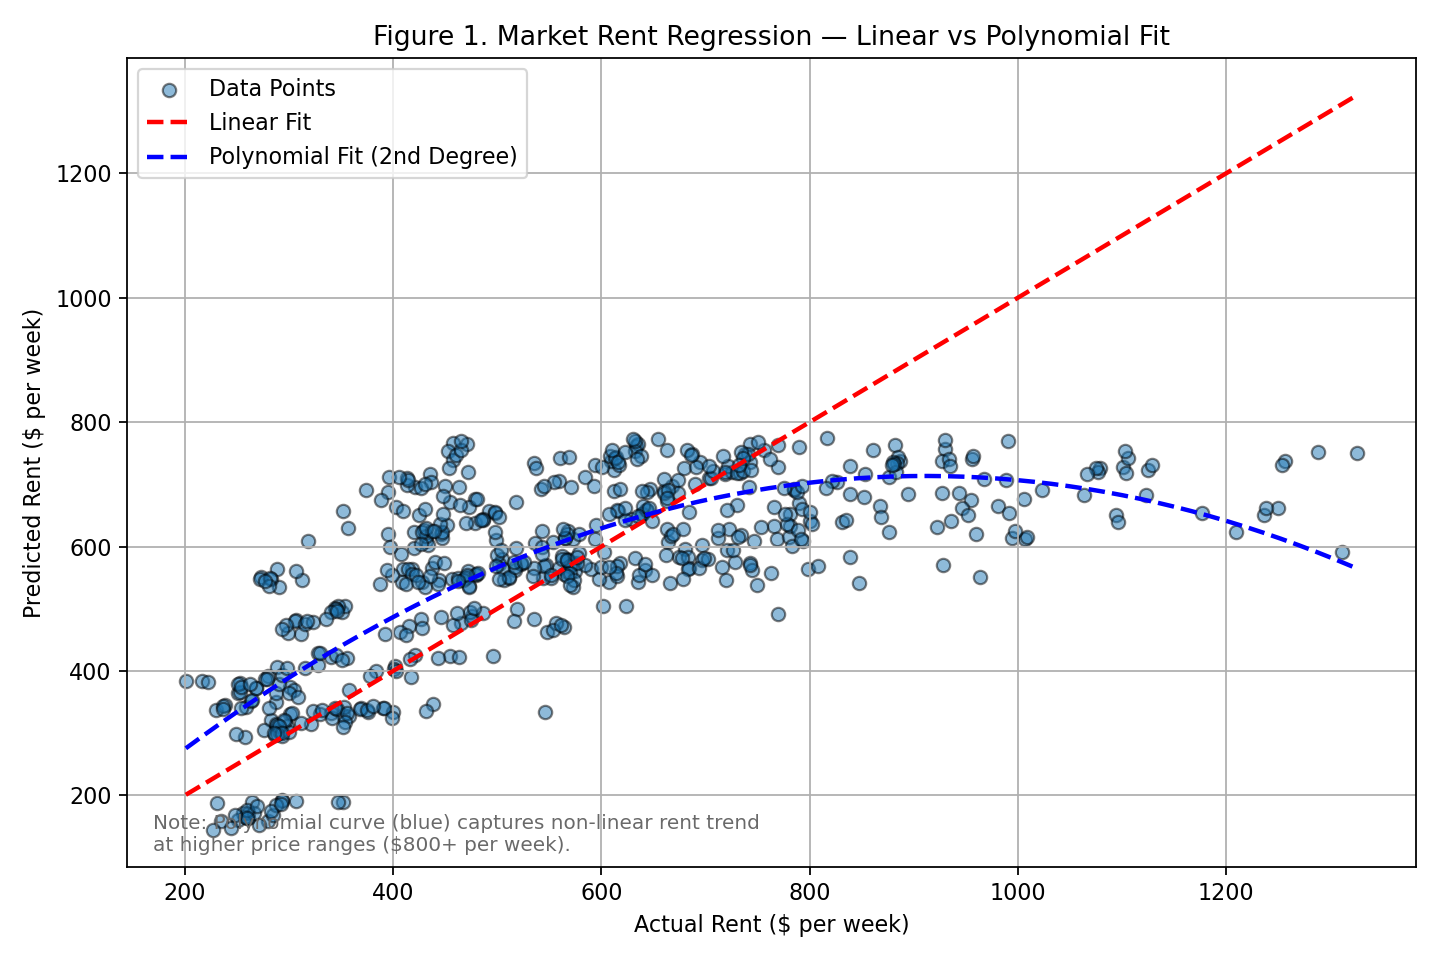
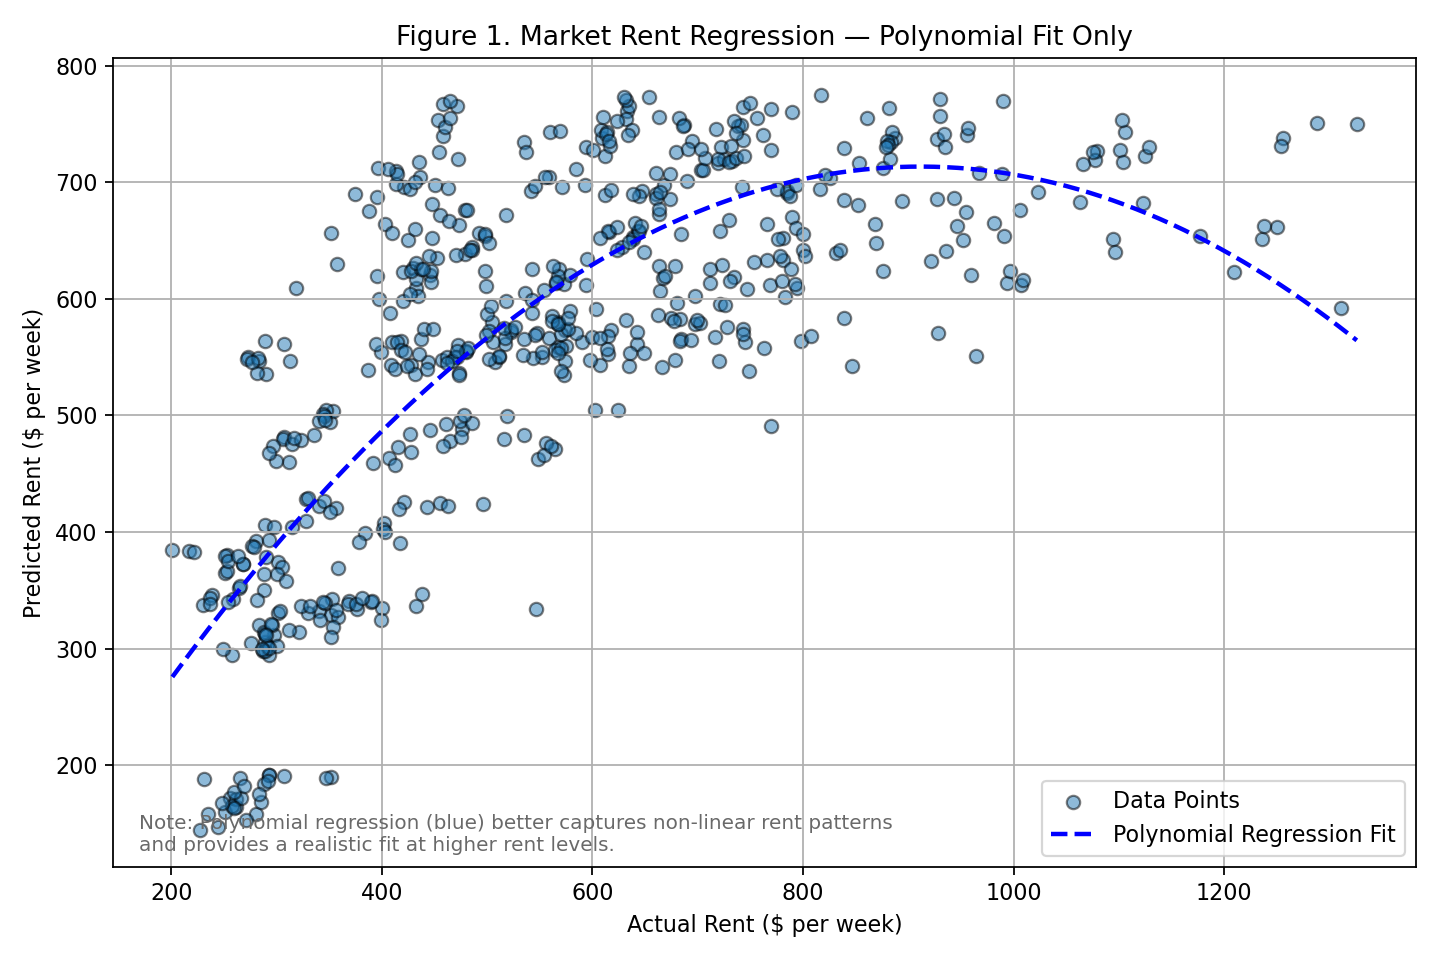
Refactor market rent regression script for clarity and update visualizations with polynomial fit comparison

diff --git a/backend/Machine_Learning_Model/market_rent_regression.py b/backend/Machine_Learning_Model/market_rent_regression.py
@@ -1,7 +1,7 @@
 # backend/Machine_Learning_Model/market_rent_regression.py
-# Market Rent linear regression: clean data, train baseline model, and produce
-# client-ready visuals (Actual vs Predicted scatter + Monthly trend).
-# Plots are also saved to ./reports for easy use in slides.
+# Market Rent Regression: Clean data, train baseline model, and generate
+# visuals for client presentation (Actual vs Predicted + Monthly trend).
+# Plots are saved under ./reports for report or slide use.
 
 import os
 import numpy as np
@@ -10,6 +10,7 @@ import matplotlib.pyplot as plt
 
 from sklearn.model_selection import train_test_split
 from sklearn.linear_model import LinearRegression
+from sklearn.preprocessing import PolynomialFeatures
 from sklearn.metrics import mean_squared_error, r2_score
 
 
@@ -19,19 +20,19 @@ from sklearn.metrics import mean_squared_error, r2_score
 
 def load_and_clean_market_rent():
     """
-    Load the Tenancy Services market rent time series and create time features.
-    Assumes CSV is at the project root as: market_rent_timeseries.csv
-    Returns a tidy DataFrame with:
+    Load the Tenancy Services market rent time series and prepare time features.
+    Expects: market_rent_timeseries.csv at the project root.
+    Returns a cleaned DataFrame with:
       - period (datetime)
-      - year, month (ints)
-      - time_index (months since start; useful as a continuous time proxy)
+      - year, month
+      - time_index (continuous time feature)
     """
     df = pd.read_csv("market_rent_timeseries.csv")
 
-    # Ensure period is proper datetime (e.g., '2025-06' -> 2025-06-01)
+    # Ensure period column is in datetime format
     df["period"] = pd.to_datetime(df["period"], format="%Y-%m")
 
-    # Basic time features
+    # Extract time-related features
     df["year"] = df["period"].dt.year
     df["month"] = df["period"].dt.month
     df["time_index"] = (df["year"] - df["year"].min()) * 12 + df["month"]
@@ -44,10 +45,7 @@ def load_and_clean_market_rent():
 # ---------------------------------------------------------------------------
 
 def pick_first_present(df, options, required=True):
-    """
-    Return the first column name from 'options' that exists in df.columns.
-    If 'required' and none match, raise an error.
-    """
+    """Return the first column in 'options' that exists in the DataFrame."""
     for c in options:
         if c in df.columns:
             return c
@@ -58,39 +56,36 @@ def pick_first_present(df, options, required=True):
 
 def build_features(df):
     """
-    Prepare features (X) and target (y) for regression and return:
-      X, y, target_name, period_s
-
-    - Detects actual column names (handles header variants across datasets).
-    - Uses bedrooms + time_index + one-hot dummies for area and dwelling type.
-    - Returns a period Series aligned with X/y for monthly trend plotting.
+    Prepare features (X) and target (y) for regression.
+    Automatically detects key columns across datasets.
+    Returns: X, y, target_name, period_s
     """
-    # Detect columns seen across your files/screenshots
+    # Detect column names
     col_target   = pick_first_present(df, ["mean", "rMean", "Mean"])
     col_bedrooms = pick_first_present(df, ["brr", "nBedrms", "bedrooms", "Beds"])
     col_area     = pick_first_present(df, ["area_label", "area", "TA Name", "Region"])
     col_dwelling = pick_first_present(df, ["dw", "dwell", "dwelling_type", "Dwelling"], required=False)
     col_time_ix  = pick_first_present(df, ["time_index"])
-    col_period   = pick_first_present(df, ["period"])  # datetime set above
+    col_period   = pick_first_present(df, ["period"])
 
-    # Base numeric + categorical features
+    # Use relevant columns
     use_cols = [col_bedrooms, col_time_ix]
     cat_cols = [col_area] + ([col_dwelling] if col_dwelling else [])
 
-    # Work on a minimal copy
+    # Create a working copy
     work = df[use_cols + cat_cols + [col_target, col_period]].copy()
 
-    # Coerce bedrooms to numeric and drop rows missing key fields
+    # Convert and clean data
     work[col_bedrooms] = pd.to_numeric(work[col_bedrooms], errors="coerce")
     work = work.dropna(subset=[col_bedrooms, col_target, col_period])
 
-    # Save aligned period before encoding
+    # Save the period for trend plotting
     period_s = work[col_period].copy()
 
-    # One-hot encode categoricals
+    # Encode categorical variables
     work = pd.get_dummies(work, columns=cat_cols, drop_first=True)
 
-    # Split into features and target
+    # Split features and target
     X = work.drop(columns=[col_target, col_period])
     y = work[col_target].astype(float)
 
@@ -98,31 +93,30 @@ def build_features(df):
 
 
 # ---------------------------------------------------------------------------
-# Training / reporting
+# Training and evaluation
 # ---------------------------------------------------------------------------
 
 def train_and_report(df):
     """
-    Train a baseline Linear Regression, evaluate on a test split,
-    and print key metrics and top coefficients.
-    RMSE is computed as sqrt(MSE) for compatibility with all sklearn versions.
+    Train baseline Linear Regression, evaluate model,
+    and print performance metrics and top coefficients.
     """
     X, y, target_name, _ = build_features(df)
 
+    # Split for validation
     X_train, X_test, y_train, y_test = train_test_split(
         X, y, test_size=0.2, random_state=42
     )
 
     model = LinearRegression()
     model.fit(X_train, y_train)
-
     y_pred = model.predict(X_test)
 
+    # Metrics
     r2  = r2_score(y_test, y_pred)
-    mse = mean_squared_error(y_test, y_pred)
-    rmse = np.sqrt(mse)
+    rmse = np.sqrt(mean_squared_error(y_test, y_pred))
 
-    print("\n=== Model evaluation ===")
+    print("\n=== Model Evaluation ===")
     print(f"Target: {target_name}")
     print(f"R²   : {r2:.4f}")
     print(f"RMSE : {rmse:.2f}")
@@ -139,55 +133,55 @@ def train_and_report(df):
 
 
 # ---------------------------------------------------------------------------
-# Script entry point (single run block)
+# Main Script
 # ---------------------------------------------------------------------------
 
 if __name__ == "__main__":
-    # 1) Load and show a small preview (keep this single head print)
+    # Step 1: Load data and preview
     df = load_and_clean_market_rent()
     print(df.head())
 
-    # 2) Train baseline model and report metrics
+    # Step 2: Train model
     model, metrics, coefs = train_and_report(df)
 
-    # Create folder for saving plots
+    # Step 3: Create output folder
     os.makedirs("reports", exist_ok=True)
 
-        # 3) Scatter: Actual vs Predicted (Figure 1) + Polynomial Comparison
-    from sklearn.preprocessing import PolynomialFeatures
-    from sklearn.linear_model import LinearRegression
-
+    # Step 4: Prepare polynomial fit for visualization
     X, y, target_name, _ = build_features(df)
     X_train, X_test, y_train, y_test = train_test_split(
         X, y, test_size=0.2, random_state=42
     )
     y_pred = model.predict(X_test)
 
-    # === Polynomial fit for comparison (2nd-degree) ===
+    # Polynomial (2nd-degree) comparison
     x_vals = y_test.values.reshape(-1, 1)
     poly = PolynomialFeatures(degree=2)
     X_poly = poly.fit_transform(x_vals)
     poly_model = LinearRegression().fit(X_poly, y_pred)
 
-    # Smooth curve for plotting
     x_sorted = np.linspace(y_test.min(), y_test.max(), 200).reshape(-1, 1)
     y_poly_pred = poly_model.predict(poly.transform(x_sorted))
 
-    # === Plot ===
+    # -----------------------------------------------------------------------
+    # Figure 1 — Actual vs Predicted (Polynomial Fit Only)
+    # -----------------------------------------------------------------------
     fig1, ax1 = plt.subplots(figsize=(9, 6))
     ax1.scatter(y_test, y_pred, alpha=0.5, edgecolor="k", label="Data Points")
 
-    lo, hi = float(y_test.min()), float(y_test.max())
-    ax1.plot([lo, hi], [lo, hi], "r--", lw=2, label="Linear Fit")
+    # Polynomial fit curve
     ax1.plot(x_sorted, y_poly_pred,
-             color="blue", linestyle="--", lw=2, label="Polynomial Fit (2nd Degree)")
+             color="blue", linestyle="--", lw=2, label="Polynomial Regression Fit")
 
+    # Labels and title
     ax1.set_xlabel("Actual Rent ($ per week)")
     ax1.set_ylabel("Predicted Rent ($ per week)")
-    ax1.set_title("Figure 1. Market Rent Regression — Linear vs Polynomial Fit")
+    ax1.set_title("Figure 1. Market Rent Regression — Polynomial Fit Only")
+
+    # Optional note for clarity
     ax1.text(0.02, 0.02,
-             "Note: Polynomial curve (blue) captures non-linear rent trend\n"
-             "at higher price ranges ($800+ per week).",
+             "Note: Polynomial regression (blue) better captures non-linear rent patterns\n"
+             "and provides a realistic fit at higher rent levels.",
              transform=ax1.transAxes, fontsize=9, color="dimgray")
 
     ax1.legend()
@@ -202,39 +196,42 @@ if __name__ == "__main__":
     fig1.savefig("reports/fig1_actual_vs_pred_poly.png", dpi=160)
     plt.show()
 
-# 4) Monthly Average Trend (Figure 2)
-X_all, y_all, target_name, period_s = build_features(df)
-y_pred_all = model.predict(X_all)
+    # -----------------------------------------------------------------------
+    # Figure 2 — Monthly Average Rent Trend (Actual vs Predicted)
+    # -----------------------------------------------------------------------
+    X_all, y_all, target_name, period_s = build_features(df)
+    y_pred_all = model.predict(X_all)
 
-trend_df = pd.DataFrame({
-    "period": period_s,
-    "actual": y_all.values,
-    "pred":   y_pred_all
-})
+    trend_df = pd.DataFrame({
+        "period": period_s,
+        "actual": y_all.values,
+        "pred":   y_pred_all
+    })
 
-trend_monthly = (
-    trend_df
-    .groupby(pd.Grouper(key="period", freq="MS"))[["actual", "pred"]]
-    .mean()
-    .dropna()
-    .sort_index()
-)
+    trend_monthly = (
+        trend_df
+        .groupby(pd.Grouper(key="period", freq="MS"))[["actual", "pred"]]
+        .mean()
+        .dropna()
+        .sort_index()
+    )
 
-fig2, ax2 = plt.subplots(figsize=(9, 5))
-ax2.plot(trend_monthly.index, trend_monthly["actual"], label="Actual (avg per month)")
-ax2.plot(trend_monthly.index, trend_monthly["pred"],   label="Predicted (avg per month)", linestyle="--")
+    fig2, ax2 = plt.subplots(figsize=(9, 5))
+    ax2.plot(trend_monthly.index, trend_monthly["actual"], label="Actual (avg per month)")
+    ax2.plot(trend_monthly.index, trend_monthly["pred"],
+             label="Predicted (avg per month)", linestyle="--")
 
-ax2.set_xlabel("Month")
-ax2.set_ylabel("Average Weekly Rent ($)")
-ax2.set_title("Figure 2. Market Rent — Monthly Average (Actual vs Predicted)")
-ax2.legend()
-ax2.grid(True)
-fig2.tight_layout()
+    ax2.set_xlabel("Month")
+    ax2.set_ylabel("Average Weekly Rent ($)")
+    ax2.set_title("Figure 2. Market Rent — Monthly Average (Actual vs Predicted)")
+    ax2.legend()
+    ax2.grid(True)
+    fig2.tight_layout()
 
-try:
-    fig2.canvas.manager.set_window_title("Figure 2")
-except Exception:
-    pass
+    try:
+        fig2.canvas.manager.set_window_title("Figure 2")
+    except Exception:
+        pass
 
-fig2.savefig("reports/fig2_monthly_avg.png", dpi=160)
-plt.show()
+    fig2.savefig("reports/fig2_monthly_avg.png", dpi=160)
+    plt.show()
